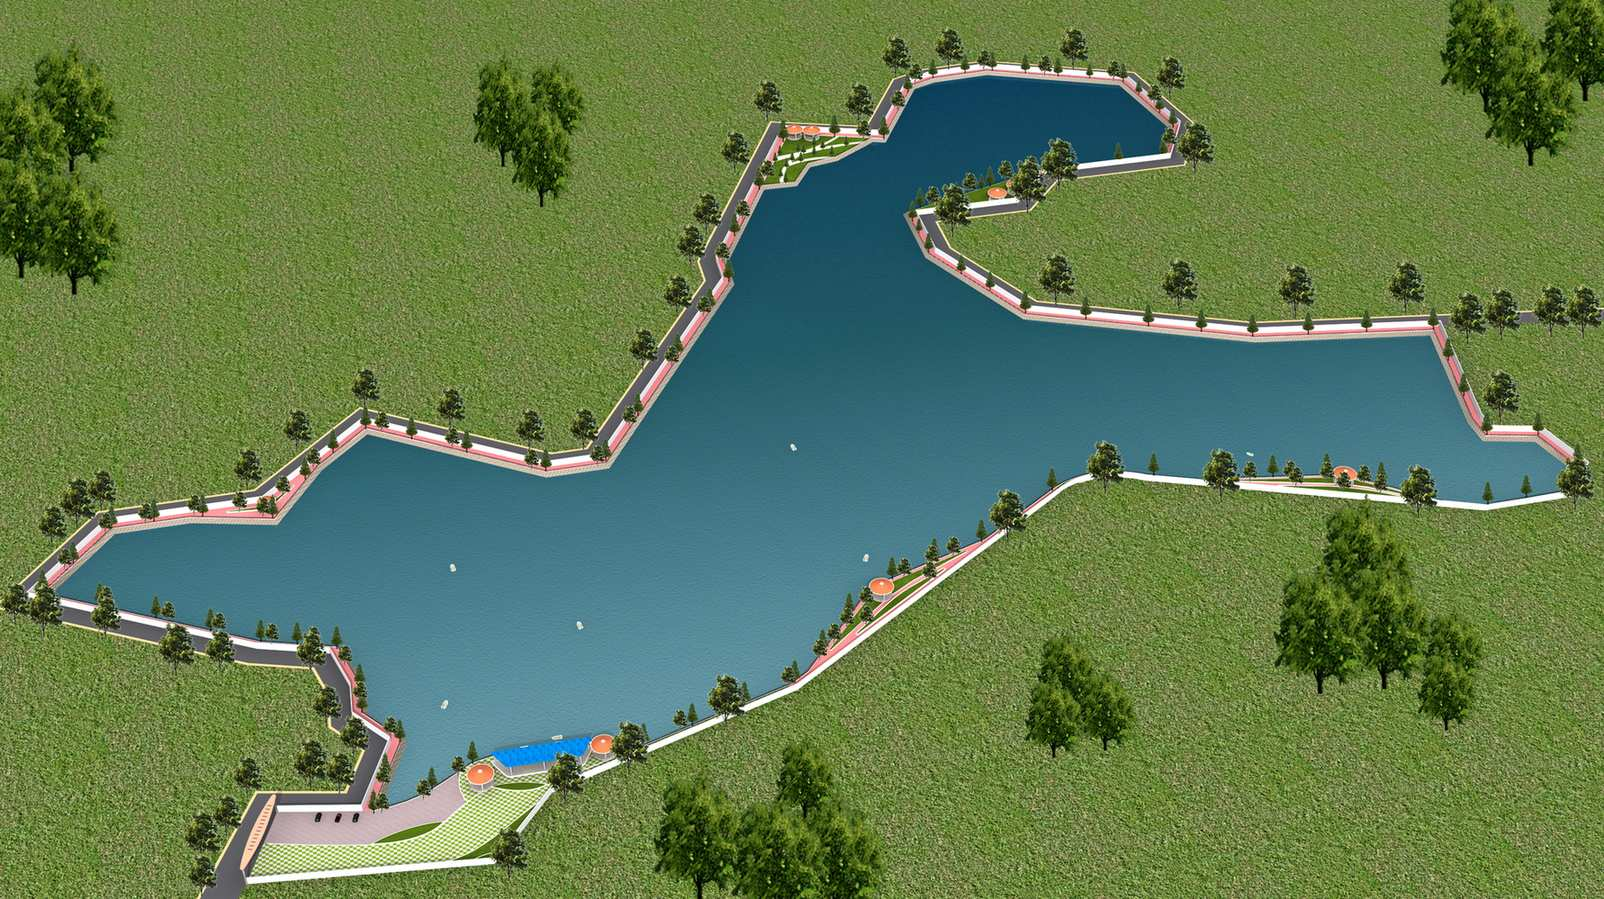
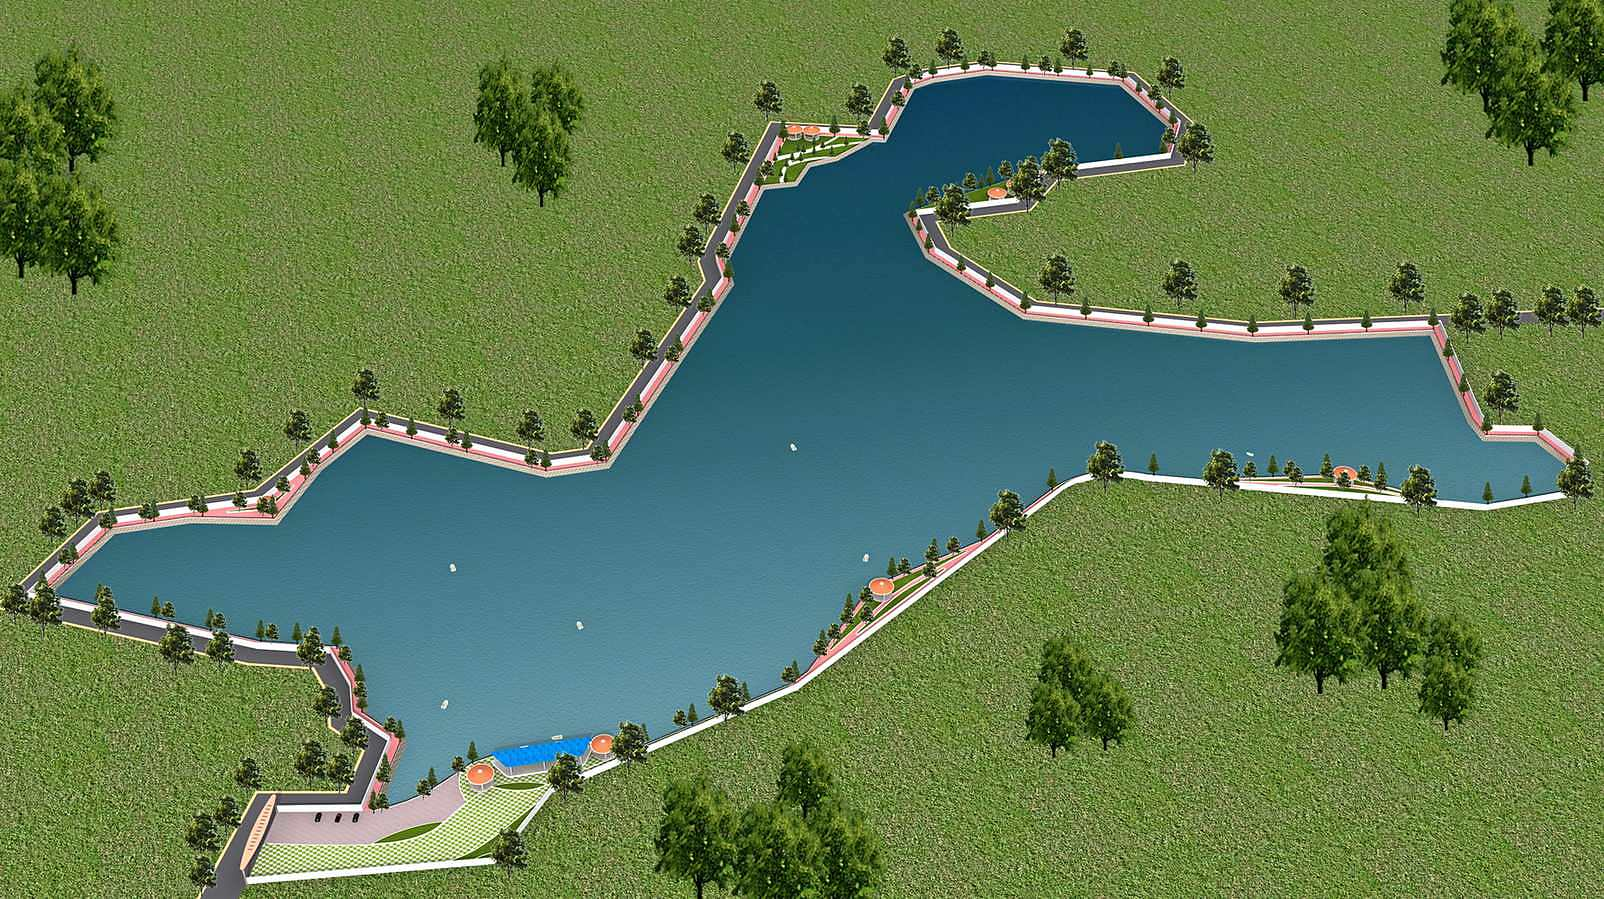
Lightly sharpen six project cover images
Preserve original image dimensions, colors, mobile crops, and static publishing. Document source-resolution limits.

diff --git a/README.md b/README.md
@@ -101,7 +101,9 @@ When changing the public domain, update the canonical URL, Open Graph URL, and a
 
 The portfolio uses the supplied project images, including architectural views and plans, office interiors, and lake renderings. Each project folder contains its cover and gallery images as sequentially named JPEGs.
 
-The first filename in `images` is the cover; accessible image labels come from the title and filename. No alt, width, or height metadata fields are required. Cards and detail views use the same CSS-controlled 4:3 image frame, reserving space before images load and cropping differently shaped images with `object-fit: cover`. Change `--project-image-ratio` in `styles.css` to adjust that ratio everywhere. Upload optimized images rather than full-resolution originals; nothing automatically resizes or compresses images.
+The first filename in `images` is the cover; accessible image labels come from the title and filename. No alt, width, or height metadata fields are required. Cards use a portrait 3:4 frame and the homepage spotlight fills its frame with `object-fit: cover`; detail images retain their natural proportions. Upload optimized images; nothing automatically resizes or compresses images.
+
+The six project covers have light sharpening applied at their existing pixel dimensions, without changing their colors, composition, or layout. They remain within the 250 KiB per-image limit. Sharpening does not restore missing detail: the two architecture covers are only 904-by-444 and 876-by-444 pixels, so tall mobile crops can still look soft. For a genuine resolution improvement, replace those files with optimized exports from the original high-resolution renders rather than enlarging these JPEGs.
 
 ## Updating projects without editing HTML
 
